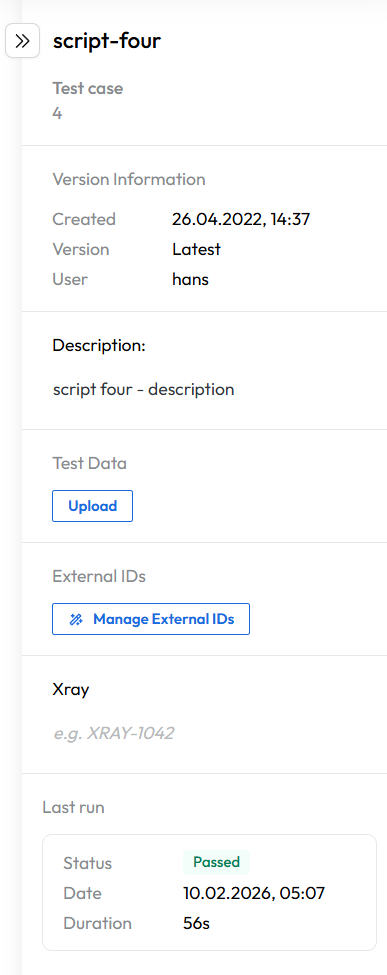
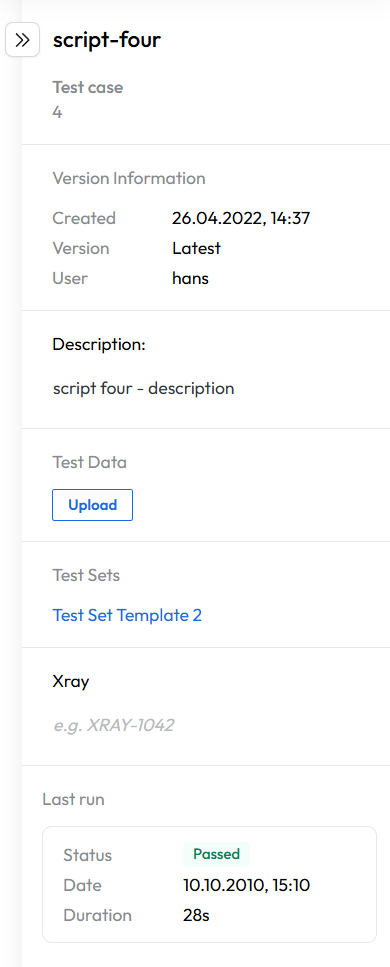
added move of manage external data

diff --git a/docs/admin.md b/docs/admin.md
@@ -76,7 +76,7 @@ It is also possible to disable the application log filter (by unchecking the 'Sh
 
 ### Configuration
 The Configuration tab provides access to the application's configuration properties.
-You can also upload and download some necessary files for the application, such as ast.properties file etc.
+You can also upload and download some necessary files for the application, such as ast.properties file etc., and manage external test case IDs in bulk.
 
 In the configuration files you can set up files necessary for the application:
 
@@ -90,6 +90,23 @@ In the configuration files you can set up files necessary for the application:
 
 For file contents and examples, see [Configuration files](configuration_files.md).
 
+#### Manage external IDs
+The **Manage external IDs** section is used for the bulk upload and download of external test case IDs (External HP ALM IDs and External Xray IDs) via CSV files.
+It is located between the configuration files and the application configuration section and is only shown when the [ALM](alm.md) or the [Xray](jira_xray.md) integration is enabled.
+
+Click the **Manage external IDs** button to open the dialog. The dialog can also be opened via the **Manage external IDs (bulk)** quick action on the [Landing page](navigation.md#landing-page), which navigates to this tab and opens the dialog directly.
+
+<!-- TODO: add screenshot of Admin → Configuration showing the Manage external IDs section (header, description text and the Manage external IDs button) between the configuration files and the application configuration section -->
+![admin_manage_external_ids.png](assets/AdminDocu/admin_manage_external_ids.png)
+<figcaption>Manage external IDs section in the Configuration tab</figcaption>
+
+!!! warning
+    An upload can overwrite the external ID mappings of any test case. This is why the bulk management of external IDs is available to administrators only.
+
+For the CSV format, validation rules and downloading of the current mapping see [Bulk assignment of External Xray IDs](jira_xray.md#bulk-assignment-csv-upload) and [Bulk assignment of External ALM IDs](alm.md#assigning-external-alm-ids-to-test-cases).
+Individual external IDs can still be edited by every user in the test case [details panel](test_case_repository.md#version-information-and-details-panel).
+
+#### Application configuration
 In the application configuration section you can set up various properties:
 
 | Property                  | Description                                                                                                                                                                                                                                                                           |

diff --git a/docs/jira_xray.md b/docs/jira_xray.md
@@ -193,7 +193,10 @@ The **Create new test case** dialog contains an optional **External Xray ID** fi
 
 #### Bulk Assignment (CSV Upload)
 
-1. Click on any test case in the repository tree to open the [details panel](test_case_repository.md#version-information-and-details-panel) and then click **Manage External IDs**. The dialog can also be opened from the **Quick Actions** on the [Landing page](navigation.md#landing-page).
+!!! info
+    The bulk upload is available to administrators only, because an upload can overwrite the External Xray IDs of any test case.
+
+1. Go to **Admin** → **Configuration** and click **Manage external IDs** in the [Manage external IDs](admin.md#manage-external-ids) section. The dialog can also be opened via the **Manage external IDs (bulk)** quick action on the [Landing page](navigation.md#landing-page).
 2. If both Xray and ALM are enabled, choose **External Xray ID** in **External ID to update**.
 3. Choose the **CSV delimiter** used in your file: comma (`,`) or semicolon (`;`).
 4. Drop or select the CSV file (maximum 100 MB). The file is validated immediately and the results are listed in **Messages**.
@@ -219,7 +222,7 @@ During validation the following rules apply:
 - **Conflicts**: if a test case already has a different External Xray ID, you are asked whether to **Replace** it or **Skip** the row.
 
 #### Downloading the current mapping
-On the right side of the **Manage External IDs** dialog you can **Download** the mapping of all test cases and their External Xray IDs as `external_xray_id_mapping.csv`. Use it as a template for your first upload. Select **Include test case name (info only)** to add the test case names for easier editing.
+On the right side of the **Manage external IDs** dialog you can **Download** the mapping of all test cases and their External Xray IDs as `external_xray_id_mapping.csv`. Use it as a template for your first upload. Select **Include test case name (info only)** to add the test case names for easier editing.
 
 ### Scheduling and Xray Synchronization
 

diff --git a/docs/alm.md b/docs/alm.md
@@ -39,12 +39,12 @@ To link AST test cases to corresponding test entities in HP ALM, you must assign
 <figcaption>Test Case metadata view showing the field for assigning or editing the 'HP ALM ID' to link the script to a corresponding ALM entity.</figcaption>
 
 2. **Bulk Assignment (CSV Upload):**
-    - Click on any test case in the repository tree to open the [details panel](test_case_repository.md#version-information-and-details-panel).
-    - Click on 'Manage External IDs'.
+    - Go to **Admin** → **Configuration**. The bulk assignment is available to administrators only.
+    - Click on 'Manage external IDs' in the [Manage external IDs](admin.md#manage-external-ids) section. Alternatively, use the 'Manage external IDs (bulk)' quick action on the [Landing page](navigation.md#landing-page).
     - This opens a dialog allowing you to upload the mappings via a CSV file. The CSV file must contain the AST Test Case ID, the External HP ALM ID, and optionally, ALM Instance Ids.
 
-![bulk_external_ids.png](assets/UserDocumentationM/bulk_external_ids.png)
-<figcaption> Test case metadata panel displaying the 'Manage External IDs' option for bulk upload of ID mappings via CSV.</figcaption>
+![admin_manage_external_ids.png](assets/AdminDocu/admin_manage_external_ids.png)
+<figcaption>Manage external IDs section in Admin → Configuration for bulk upload of ID mappings via CSV.</figcaption>
 
 
 

diff --git a/docs/navigation.md b/docs/navigation.md
@@ -17,7 +17,7 @@ Short description of the sections on the landing page is provided in the table b
 | Scheduled runs    | Shows the number of scheduled executions on the current Avaloq environment.                                                                                             |
 | Recent Test Cases | Displays the last 5 test cases modified by the currently logged-in user. Click on a test case to open.                                                                  |
 | Recent Run Status | Displays the last 5 executions started by the currently logged-in user on the current Avaloq environment with their status. Click on the execution to see more details. |
-| Quick Actions     | Quick links to Create a new test case, Scheduling execution, Manage external IDs (Xray, ALM) and Analytics                                                              |
+| Quick Actions     | Quick links to Create a new test case, Scheduling execution, Manage external IDs (Xray, ALM) and Analytics. Manage external IDs is shown to administrators only when Xray or ALM is enabled and opens the dialog in [Admin → Configuration](admin.md#manage-external-ids). |
 | Version           | Shows the version of the AST Control Panel that is currently deployed.                                                                                                  |
 
 

diff --git a/docs/test_case_repository.md b/docs/test_case_repository.md
@@ -41,7 +41,7 @@ You can also see the last run status of this testcase.
 
 In this section you can also modify the name of the test case and its description.
 
-When Xray or ALM integration is set up, you can also see the linked external IDs and you can also bulk upload or download these IDs.
+When Xray or ALM integration is set up, you can also see and edit the linked external IDs. The bulk upload and download of external IDs is available to administrators in [Admin → Configuration](admin.md#manage-external-ids).
 
 ![testcasemetadata.png](assets/UserDocumentationM/testcasemetadata.png)
 <figcaption>Detailed view of a selected test case information, external IDs, the last run and the button where you can upload test data.</figcaption>

diff --git a/docs/release_notes.md b/docs/release_notes.md
@@ -19,6 +19,7 @@
 
 #### Other
 
+- Manage external IDs (bulk upload and download of External Xray and HP ALM IDs) was moved from the test case details panel to Admin → Configuration and is now available to administrators only. [Read more](admin.md#manage-external-ids)
 - The Stop if fail setting is now stored for each execution, so later changes to the test set no longer affect existing executions.
 - The status sent to Xray is now taken from the execution result.
 - Trial runs are stopped automatically when their logs are no longer being followed in the editor, for example after closing the browser tab.
